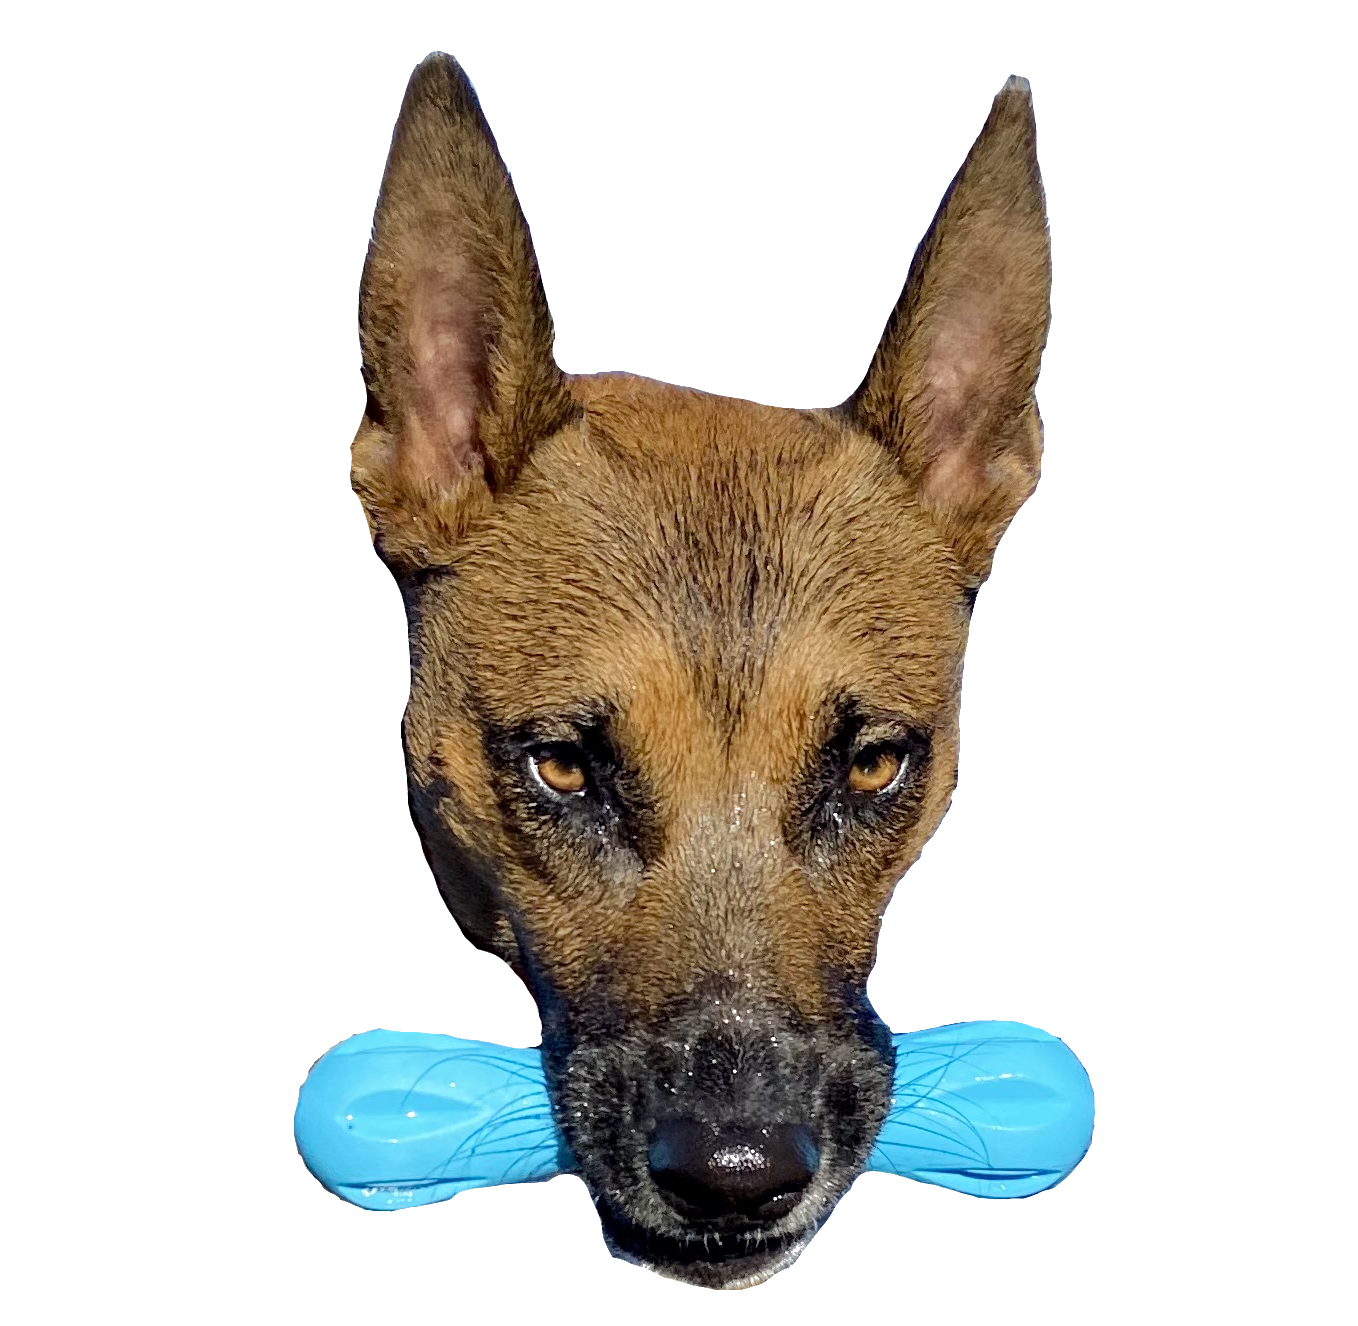
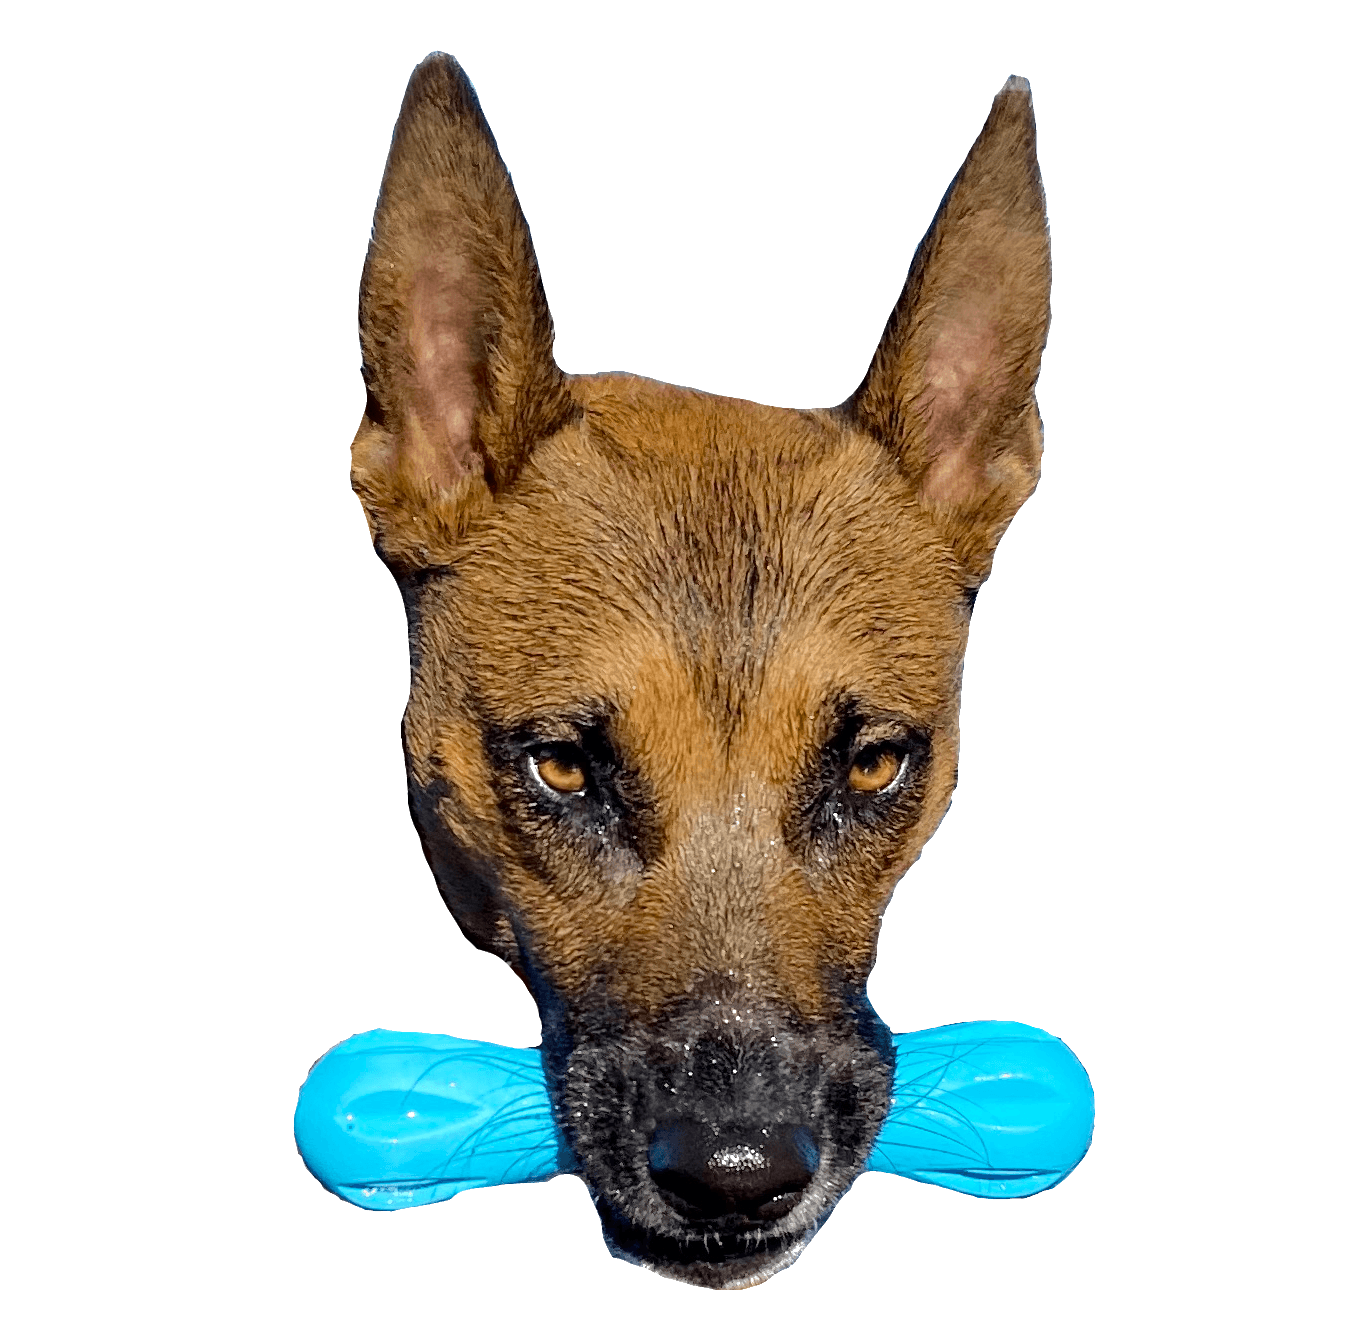
Updates

Changed region(s): [[0.2165, 0.773, 0.433, 0.9276], [0.6186, 0.7421, 0.8041, 0.9276]]

diff --git a/index.html b/index.html
@@ -5,7 +5,7 @@
     <link rel="icon" type="image/svg+xml" href="/thumbnail.png" />
     <meta name="viewport" content="width=device-width, initial-scale=1.0" />
     <title>Kylee’s K9s</title>
-    <script type="module" crossorigin src="/assets/index-CZ8F2AQg.js"></script>
+    <script type="module" crossorigin src="/assets/index-Do8MoH2L.js"></script>
   </head>
   <body>
     <div id="root"></div>